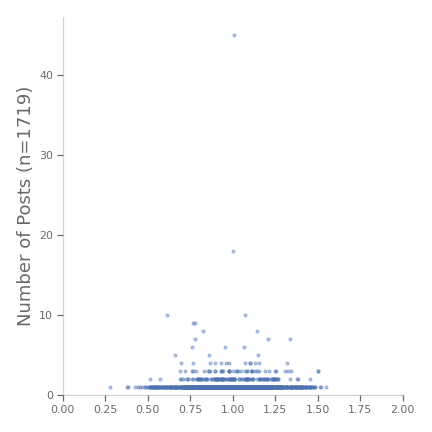
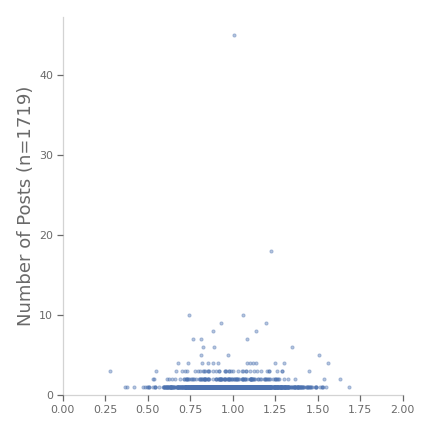
started submission delta analysis

diff --git a/wsba.py b/wsba.py
@@ -157,7 +157,7 @@ def makebiggestauthortable():
     for author,count in zip(authors,counts):
         print(f'| <a href=https://www.reddit.com/user/{author}/>{author}</a> | {count} |')
 
-def getsubmissiondeltas():
+def getsubmissiondeltas(max=None,log=True,save=None):
     submission_dates = wsbs.aggregate( [ {
         '$project': {
             'date': {
@@ -175,7 +175,8 @@ def getsubmissiondeltas():
         i += 1
         if lastTime != None:
             delta = (lastTime - x['date']).seconds
-            deltas.append(delta)
+            if max == None or delta <= max:
+                deltas.append(delta)
         #print(i, x)
         lastTime = x['date']
         #if i >= 30:
@@ -185,8 +186,10 @@ def getsubmissiondeltas():
     ax.set_ylabel(f'Number of Deltas (n={len(deltas)})')
     ax.set_xlabel('Deltas (Seconds Between Submissions)')
     plt.tight_layout()
-    plt.yscale('log')
-    plt.savefig('figures/submissiondeltas.png')
+    if log:
+        plt.yscale('log')
+    if save:
+        plt.savefig(save)
     pass
 
 if __name__ != '__main__':

diff --git a/README.md b/README.md
@@ -34,23 +34,27 @@ A total of 1322 submission authors are represented in the data. The plot below s
 | <a href=https://www.reddit.com/user/AutoModerator/>AutoModerator</a> | 10 |
 | <a href=https://www.reddit.com/user/CMScientist/>CMScientist</a> | 9 |
 | <a href=https://www.reddit.com/user/Jesus_Gains_Christ/>Jesus_Gains_Christ</a> | 9 |
-| <a href=https://www.reddit.com/user/Citor3_scenes/>Citor3_scenes</a> | 8 |
 | <a href=https://www.reddit.com/user/GrubbyWango/>GrubbyWango</a> | 8 |
+| <a href=https://www.reddit.com/user/Citor3_scenes/>Citor3_scenes</a> | 8 |
 | <a href=https://www.reddit.com/user/Anal_Chem/>Anal_Chem</a> | 7 |
 | <a href=https://www.reddit.com/user/DanyeelsAnulmint/>DanyeelsAnulmint</a> | 7 |
 | <a href=https://www.reddit.com/user/dvdgelman7/>dvdgelman7</a> | 7 |
-| <a href=https://www.reddit.com/user/indonesian_activist/>indonesian_activist</a> | 6 |
-| <a href=https://www.reddit.com/user/Professional_War1998/>Professional_War1998</a> | 6 |
 | <a href=https://www.reddit.com/user/GmeCalls-UrWifesBf/>GmeCalls-UrWifesBf</a> | 6 |
+| <a href=https://www.reddit.com/user/Professional_War1998/>Professional_War1998</a> | 6 |
+| <a href=https://www.reddit.com/user/indonesian_activist/>indonesian_activist</a> | 6 |
 
 # Some Initial Observations
 1. Stocks are sometimes written in capital letters in the middle of a word
 1. Stocks are sometimes written beginning with a $ and ending with a space
 1. Only one of the big authors is a bot (AutoModerator) as determined by visual inspection of their posts.
 
-# Analysis of Submission Times
-Below is a histogram of submission deltas (seconds between posts) plotted with a log y-axis.
+# Analysis of Submission Post Times
+Below is a histogram of submission deltas (seconds between posts) plotted with a log y-axis. As can be seen in the figure, the majority of the posts occur less than 5,000 seconds apart, or ~83 minutes.
 ![Figure 3](figures/submissiondeltas.png)
+<Figure size 432x432 with 1 Axes>
+
+Removing deltas above 5000 gives us a smooth distribution that we can plot in arithmatic space:
+![Figure 3](figures/submissiondeltas_clean.png)
 <Figure size 432x432 with 1 Axes>
 
 # Technology Stack
